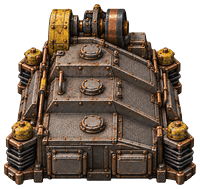
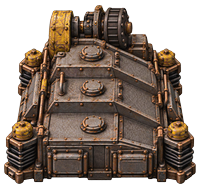
Adopt the round-3 Dross Classifier plate
The round-2 plate's drive cannot be animated: its surface is one smooth
luminance ramp with a single peak of 141 at rows 14-17, which is a baked
specular, and nothing repeats around the circumference. Round 3 asked for that
one component to be redrawn against animation-pipeline.md's Stage 1 sections and
got back exactly what they specify -- eight bolt heads evenly spaced round the
wheel face, ribs across the barrel, an offset counterweight boss, no specular --
still legible when the render comes down to the plate's real 192 px.

Adopting the whole plate rather than compositing the drive, because compositing
needs a stencil and two mask edits of the render came back byte-identical to
their input: different file size, ImageChops.difference None, zero magenta.
Appendix B's null result twice running on an image where the same prompt worked
first time on the round-2 plate.

The trade is a texture-level redraw of the whole machine -- 52.4% of pixels
changed against a 6.1% resample floor -- for a drive that can turn. Every
measure the pipeline checks came back level with round 2: trimmed aspect 1:0.93
to 1:0.92, body metal #634C3D at luminance 80 and warmth +38 to #654C3D, 80,
+40, palette in range both. The yellow accent from ba190d7, the hatches, the
roofline, the bins and the four spring stacks all survive.

Cut at five pixels of margin a side rather than four. At four the new render
trimmed to 194 px -- 3.031 tiles -- and a row of them would have overlapped by
[…]

diff --git a/graphics/building-spec-dross-classifier.md b/graphics/building-spec-dross-classifier.md
@@ -220,7 +220,7 @@ production notes:
 
 | Plate | Canvas | Drawn content | Shift | Scale |
 | ----- | ------ | ------------- | ----- | ----- |
-| `base.png` | 200 × 189 | 192 × 181 → **3.000 × 2.828 tiles** | `{ 0, 0 }` | 0.5 |
+| `base.png` | 200 × 189 | 192 × 179 → **3.000 × 2.797 tiles** | `{ 0, 0 }` | 0.5 |
 | `base-shadow.png` | 345 × 200 | leans up and right off the plate's own alpha | `{ 1.13281, 0.08594 }` | 0.5 |
 
 **Checked against the template's Appendix C, all four checks:**
@@ -229,7 +229,10 @@ production notes:
 2. **Not clipped** — alpha `0` down both edge columns and along both edge rows,
    on the colour plate *and* on the shadow.
 3. **Fits the box** — `check-footprint.py --tiles 3` passes; the drawn machine is
-   192 px at a 64 px pitch, which is 3.000 tiles on the nose.
+   192 px at a 64 px pitch, which is 3.000 tiles on the nose. **This is what set
+   the margins on the round-3 cut**: at the round-2 margins of 4 px a side the
+   new render trimmed to 194 px — 3.031 tiles — and a row of them would have
+   overlapped by two pixels each. Five a side brings it back to 192 exactly.
 4. **Declared equals actual** — the two `width`/`height` pairs in
    `prototypes/core/machines.lua` are the files' own sizes.
 
@@ -238,13 +241,14 @@ alpha > 80. This building cannot interleave with its neighbours, which is the
 failure the Arc Mast is the standing lesson for.
 
 **Camera, measured against vanilla rather than judged:** trimmed aspect
-**1:0.94**, against a vanilla 3×3 plate's 1:0.96. That is the check the Bed
+**1:0.92**, against a vanilla 3×3 plate's 1:0.96. That is the check the Bed
 Tender's first plate failed at 1:0.61, and it is why the concept sheet's hero was
 edited rather than re-prompted.
 
-**Body metal `#5A4639`, luminance 73, warmth R−B +33** — inside the
+**Body metal `#654C3D`, luminance 80, warmth R−B +40** — inside the
 `#4A463F`–`#6E685C` band, and the warmth is the copper this round deliberately
-let out.
+let out. The round-2 painted plate measured `#634C3D`, 80, +38 on the same
+tool, so round 3 moved the metal by two points of warmth and nothing else.
 
 ---
 
@@ -304,21 +308,31 @@ the wheel face, ribs across the barrel, an offset counterweight boss, and the
 specular gone — and all of it still legible when the render is brought down to
 the plate's 192×181. Filed as `concept/plate-r3-animatable-drive.png`.
 
-**Not adopted, pending a decision.** The edit redrew the whole machine, not one
-component: 52.4 % of pixels changed against a 6.1 % resample floor, and alpha
-drift 4.11 against 0.63. But every measure the pipeline actually checks is
-*identical* to the shipped plate — trimmed aspect 1:0.93 both, body metal
-`#634C3D` at luminance 80 and warmth +38 both, palette in range both — and the
-yellow accent, the hatches, the roofline and the springs all survive. So the
-52 % is texture-level redraw rather than design drift, and the choice is
-whether to take the new plate whole or keep the shipped one.
+**Adopted.** The edit redrew the whole machine rather than one component —
+52.4 % of pixels changed against a 6.1 % resample floor, alpha drift 4.11
+against 0.63 — but every measure the pipeline checks came back level with the
+round-2 plate: trimmed aspect 1:0.93 against 1:0.92, body metal `#634C3D` at
+luminance 80 and warmth +38 against `#654C3D`, 80, +40, palette in range both.
+The yellow accent, the hatches, the roofline, the bins and the four spring
+stacks all survive. So the 52 % is texture-level redraw, not design drift, and
+what the round buys is a drive that can be animated.
 
-**The middle path is blocked.** Compositing only the new drive onto the shipped
-housing needs a stencil, and two mask edits of the render came back
-byte-identical to their input — different file size, `ImageChops.difference`
-returning `None`, zero magenta. That is the null result Appendix B records, hit
-twice in a row on this image where the same prompt worked first time on the
-previous plate.
+Cut at five pixels of margin a side rather than four — see §13 check 3 — and
+installed over `base.png` and `base-shadow.png`. **No prototype change:** the
+canvases are the same 200 × 189 and 345 × 200, and the tool's derived shadow
+shift resolves to the `{ 1.13281, 0.08594 }` already declared.
+
+**The middle path was tried first and is blocked.** Compositing only the new
+drive onto the round-2 housing needs a stencil, and two mask edits of the render
+came back byte-identical to their input — different file size,
+`ImageChops.difference` returning `None`, zero magenta. That is the null result
+Appendix B records, hit twice running on this image where the same prompt worked
+first time on the round-2 plate. Taking the whole plate avoided needing it.
+
+**Still to do:** the drive is now *drawable* as an animation and is not yet
+animated. `animation-pipeline.md` stages 2–4 — mask, cut, `--mode scroll` — are
+what turn it, and the drum's region wants re-measuring off this plate rather
+than the round-2 one.
 
 **Round 1, 2026-09-08 — five options, compared rather than refined.** A Shaker
 Deck, B Trommel, C Rocker Beam, D Cascade Tower, E Spiral Rake; one generation
